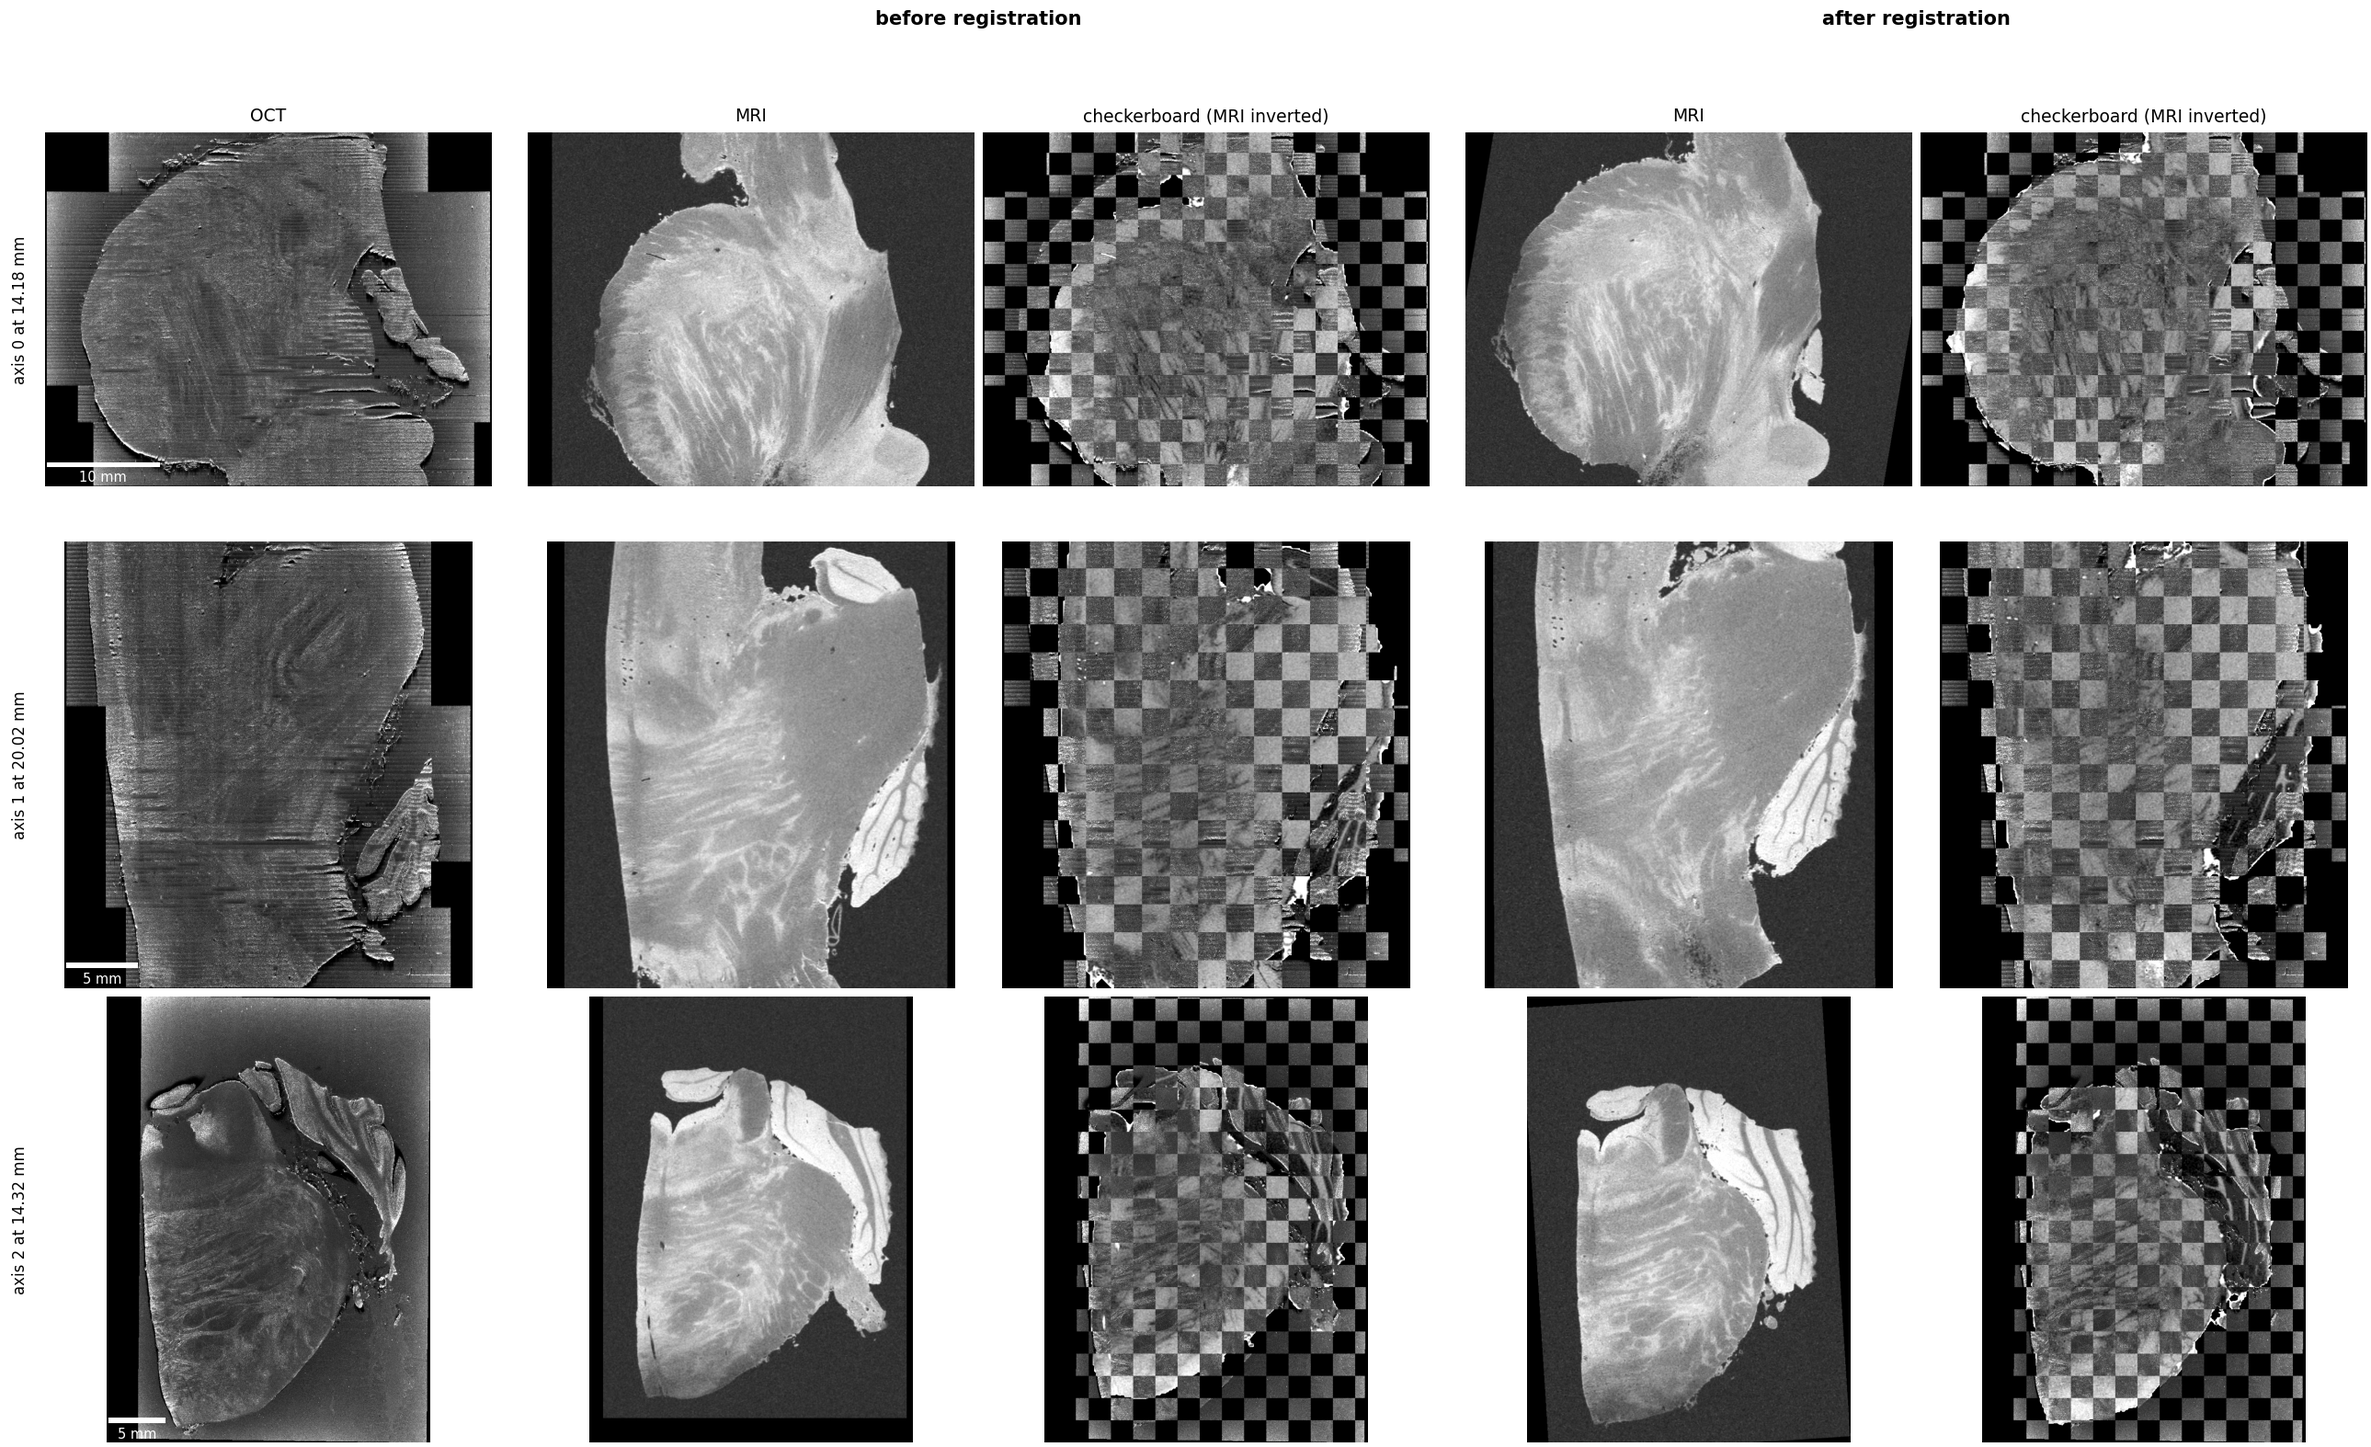
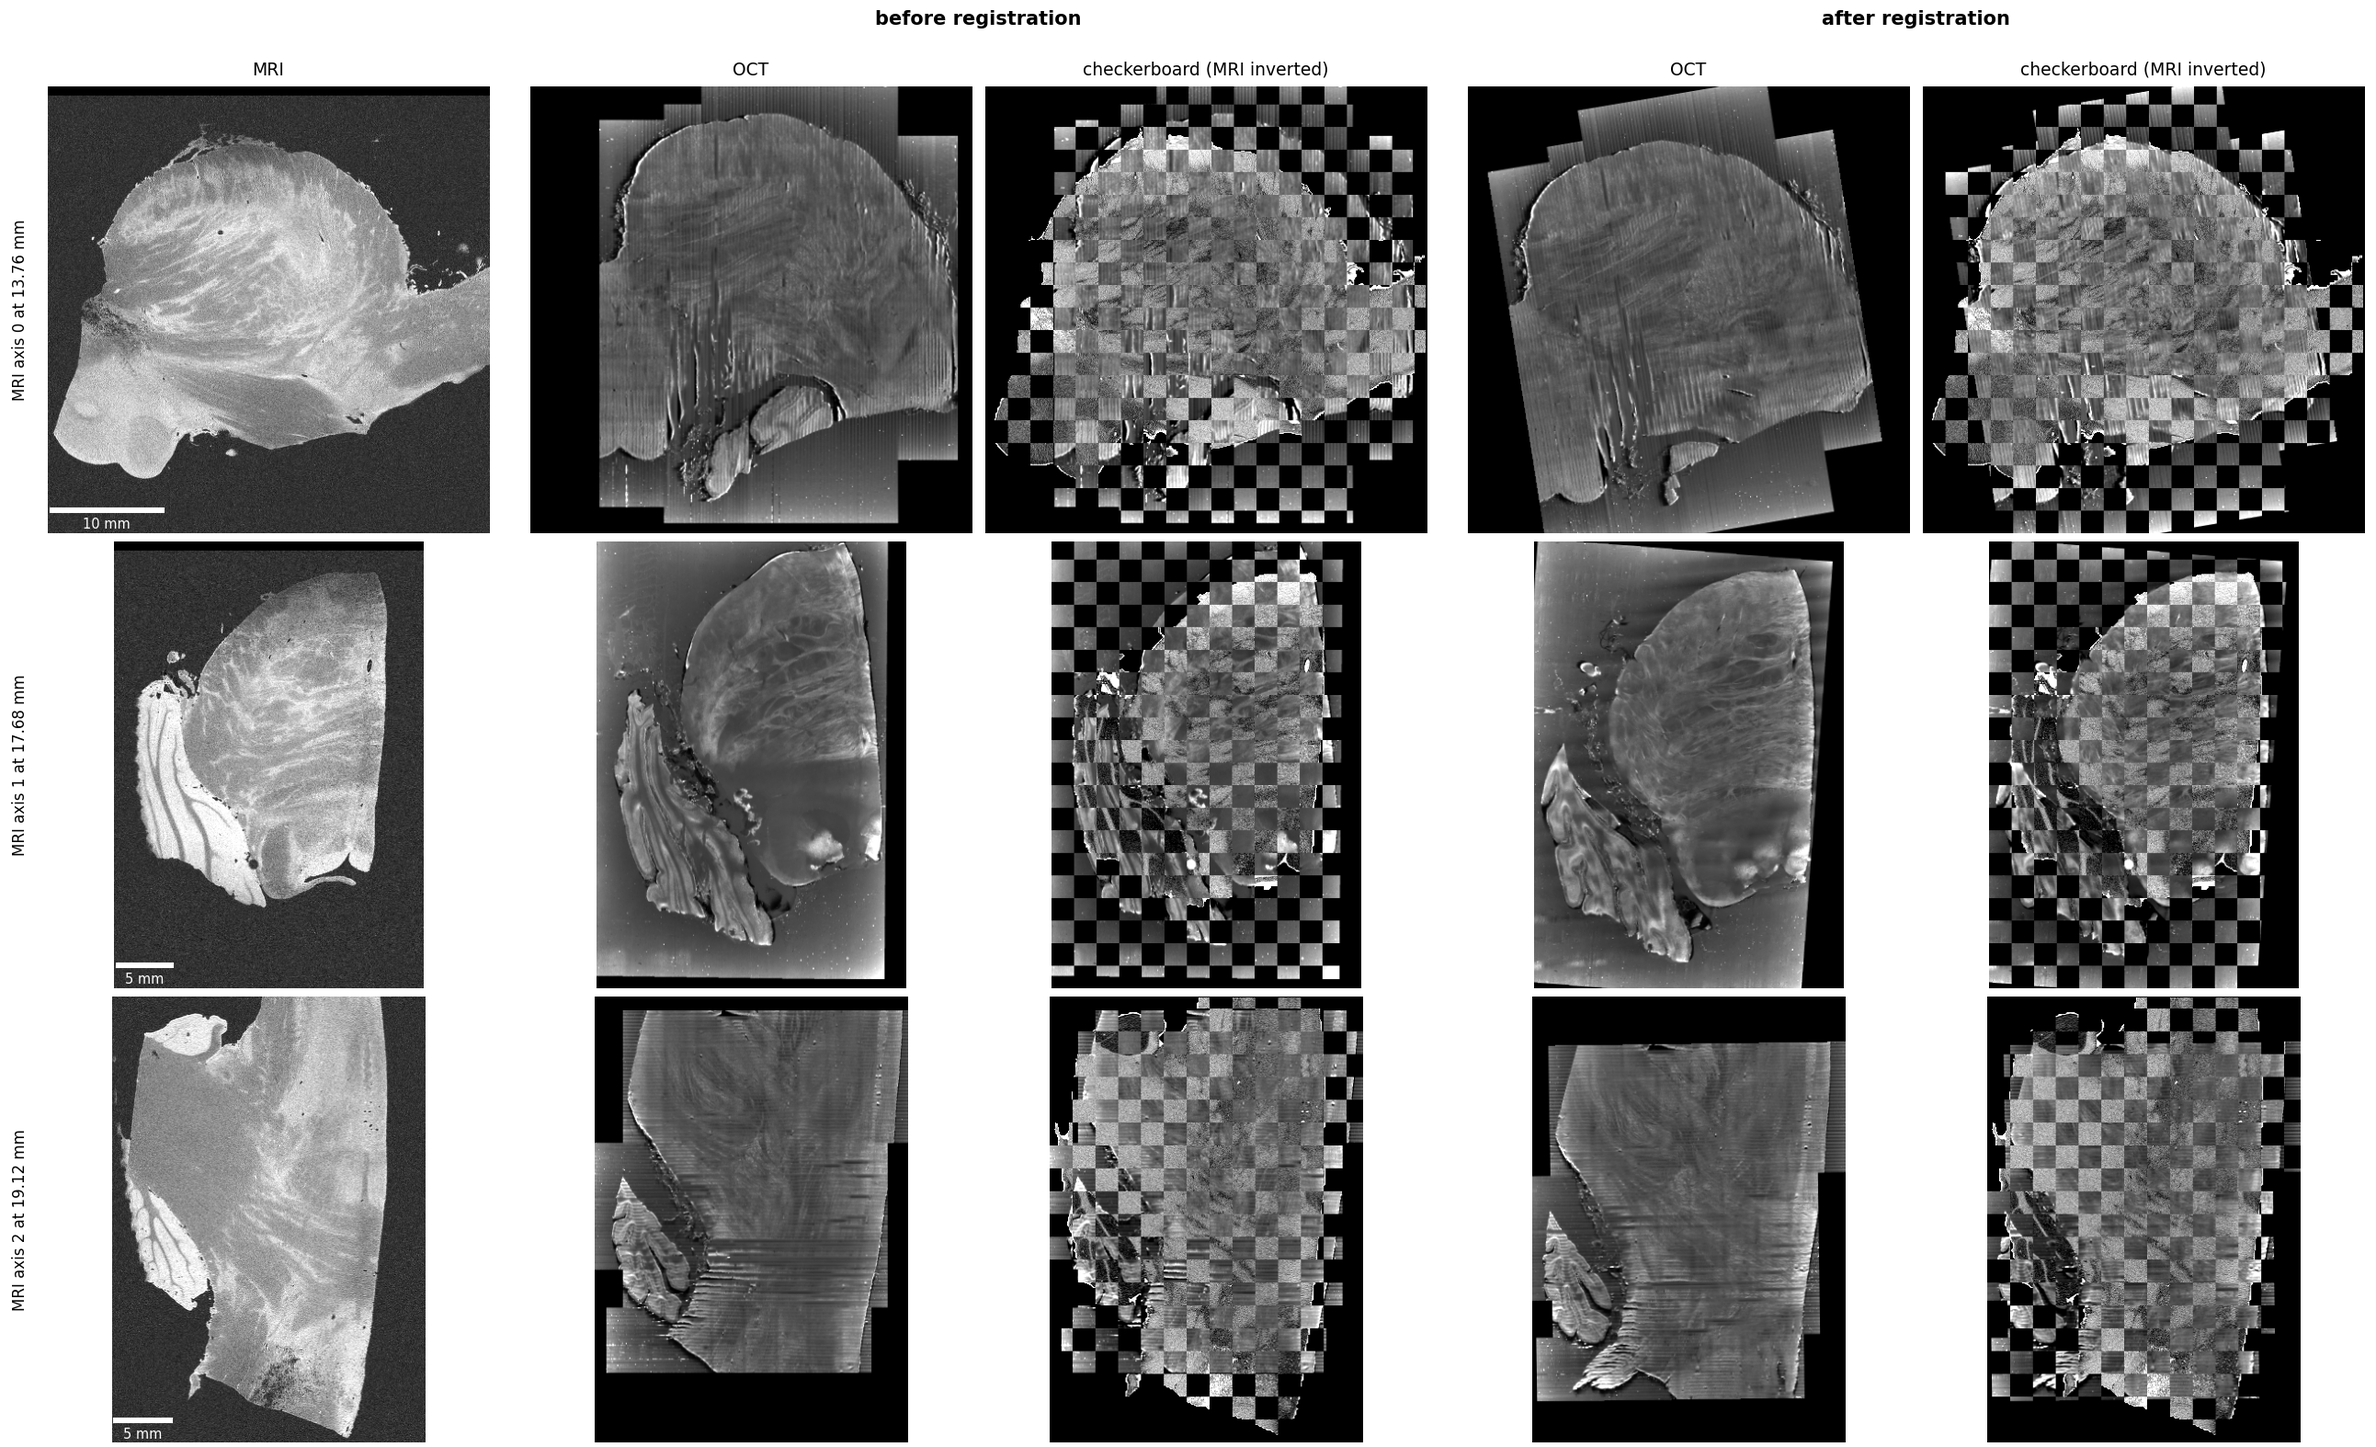
octreg 1.0: registration figure in the MRI frame (OCT placed on the MRI)

diff --git a/bench/fig_registration.py b/bench/fig_registration.py
@@ -1,14 +1,14 @@
 #!/usr/bin/env python3
-"""README registration figure read from the original files: for the three QC planes through the specimen centre, the OCT
-plane of the 20 um file sampled every STEP voxels; the MRI interpolated from its native 0.08 mm grid at the same points before
-registration (orientation from the file headers, the OCT specimen centre moved onto the MRI foreground centre) and after it (the run's transform), each in original contrast and as a 2 mm
-checkerboard with the OCT (MRI contrast inverted inside the run's MRI foreground when the polarity is -1, as in qc.png).
+"""README registration figure in the MRI frame, read from the original files: three MRI array planes through the registered
+OCT specimen centre, the native MRI slice (the reference), and the OCT placed onto it before registration (orientation from the
+file headers, the OCT specimen centre moved onto the MRI foreground centre) and after it (the run's transform), each also as a
+2 mm checkerboard with the MRI (MRI contrast inverted inside the run's MRI foreground when the polarity is -1, as in qc.png).
+The OCT is box-averaged to the MRI voxel size (0.08 mm) before it is sampled.
 
     python bench/fig_registration.py --run RUN --mask MASK --mri-mask MRI_MASK --oct OCT --mri MRI -o FIG.png
 
 RUN: octreg register output (result.json). MASK, MRI_MASK: the run's OCT specimen mask and MRI foreground on the base grid
-(ablate prep/texture/oct_mask.nii.gz, prep/mri/mri_mask.nii.gz); MASK fixes the planes exactly as qc.png does. The OCT is
-streamed once; one plane in memory at a time.
+(ablate prep/texture/oct_mask.nii.gz, prep/mri/mri_mask.nii.gz).
 """
 import argparse
 import json
@@ -21,10 +21,14 @@ import numpy as np
 from mpl_toolkits.axes_grid1.anchored_artists import AnchoredSizeBar
 from scipy import ndimage
 
-from octreg import io
+from octreg import geometry as G, io
 
-STEP = 2              # OCT voxels per plotted sample (40 um); the 150 dpi panels show about 70-80 um per pixel
 TILE_MM = 2.0
+
+
+def sample(vol, affine, world, order=1):
+    """Values of vol (voxel -> world affine) at world points [4, N]."""
+    return ndimage.map_coordinates(vol, (np.linalg.inv(affine) @ world)[:3], order=order, cval=0.0)
 
 
 def main():
@@ -34,88 +38,71 @@ def main():
     a = ap.parse_args()
     res = json.loads(open(f"{a.run}/result.json").read())
     T, pol = np.array(res["T_oct2mri"]), res["pose"]["polarity"]
-    thr = res["foreground"]["mri"]["threshold"]
-    vo = io.load_volume(a.oct)
-    A_f, (ni, nj, nk) = vo.affine, vo.shape
-    sp = float(np.linalg.norm(A_f[:3, 0]))
-    m_img = nib.load(a.mask)
-    mask, A_h = np.asarray(m_img.dataobj) > 0, m_img.affine
-    c = np.rint(ndimage.center_of_mass(mask))
-    idx = np.rint((np.linalg.inv(A_f) @ A_h @ np.append(c, 1.0))[:3]).astype(int)           # file voxel of each plane
-    planes = [np.zeros((nj, nk), np.float32), np.zeros((ni, nk), np.float32), None]
-    for k, pl in io.iter_planes(vo):
-        planes[0][:, k], planes[1][:, k] = pl[idx[0], :], pl[:, idx[1]]
-        if k == idx[2]:
-            planes[2] = pl.copy()
     mri_img = nib.load(a.mri)
     mri, A_m = np.asarray(mri_img.dataobj, np.float32), mri_img.affine
-    fm_img = nib.load(a.mri_mask)
-    fg_m, A_fm = np.asarray(fm_img.dataobj, np.float32), fm_img.affine
+    sp_m = float(np.linalg.norm(A_m[:3, 0]))
+    m_img, f_img = nib.load(a.mask), nib.load(a.mri_mask)
+    spec, A_h = np.asarray(m_img.dataobj, np.float32), m_img.affine
+    fg_m, A_fm = np.asarray(f_img.dataobj, np.float32), f_img.affine
+    oct_, A_o = G.resample_iso(io.load_volume(a.oct), sp_m)                                   # OCT at the MRI voxel size
+
+    c_oct = A_h @ np.append(ndimage.center_of_mass(spec > 0.5), 1.0)                         # OCT specimen centre, OCT world
+    T0 = np.eye(4)                                                                             # before registration
+    T0[:3, 3] = (A_fm @ np.append(ndimage.center_of_mass(fg_m > 0.5), 1.0))[:3] - c_oct[:3]
+    idx = np.rint((np.linalg.inv(A_m) @ T @ c_oct)[:3]).astype(int)                           # MRI planes
+    sub = oct_[::3, ::3, ::3]
+    lo_o, hi_o = np.percentile(sub[sub > 0], [0.5, 99.5])
     hi_m = float(np.percentile(mri[mri > 0], 99.5))
-    tissue_vals = mri[mri > thr]
-    lo_t, hi_t = np.percentile(tissue_vals, [1, 99])
-    mask_to_file = np.linalg.inv(A_h) @ A_f
-    T0 = np.eye(4)                                                                         # before registration
-    T0[:3, 3] = (A_fm @ np.append(ndimage.center_of_mass(fg_m > 0.5), 1.0))[:3] - (A_h @ np.append(ndimage.center_of_mass(mask), 1.0))[:3]
+    lo_t, hi_t = np.percentile(mri[mri > res["foreground"]["mri"]["threshold"]], [1, 99])
 
     rows = []
     for ax in range(3):
-        pl = planes[ax][::STEP, ::STEP]                                                     # [u, v] on the two other axes
+        sl = np.take(mri, idx[ax], axis=ax)                                                    # native MRI slice
         others = [d for d in range(3) if d != ax]
-        u, v = np.meshgrid(np.arange(pl.shape[0]) * STEP, np.arange(pl.shape[1]) * STEP, indexing="ij")
+        u, v = np.meshgrid(np.arange(sl.shape[0]), np.arange(sl.shape[1]), indexing="ij")
         ijk = np.zeros((4,) + u.shape)
         ijk[others[0]], ijk[others[1]], ijk[ax], ijk[3] = u, v, idx[ax], 1.0
-        pts = ijk.reshape(4, -1)
-        mri_vox = (np.linalg.inv(A_m) @ T @ A_f @ pts)[:3]
-        mp = ndimage.map_coordinates(mri, mri_vox, order=1, cval=0.0).reshape(u.shape)
-        mp0 = ndimage.map_coordinates(mri, (np.linalg.inv(A_m) @ T0 @ A_f @ pts)[:3], order=1, cval=0.0).reshape(u.shape)
-        fg, fg0 = (ndimage.map_coordinates(fg_m, (np.linalg.inv(A_fm) @ X @ A_f @ pts)[:3], order=1, cval=0.0).reshape(u.shape) > 0.5
-                   for X in (T, T0))
-        inside = ndimage.map_coordinates(mask.astype(np.float32), (mask_to_file @ pts)[:3], order=0, cval=0).reshape(u.shape) > 0
-        meas = pl > 0
-        lo_o, hi_o = np.percentile(pl[meas], [0.5, 99.5])
-        oct_raw = np.clip((pl - lo_o) / (hi_o - lo_o), 0, 1) * meas
-        lo_s, hi_s = np.percentile(pl[inside & meas], [1, 99]) if (inside & meas).any() else (lo_o, hi_o)
-        oct_s = np.clip((pl - lo_s) / (hi_s - lo_s), 0, 1) * meas
-        tile = int(round(TILE_MM / (sp * STEP)))
-        board = ((np.arange(pl.shape[0])[:, None] // tile + np.arange(pl.shape[1])[None, :] // tile) % 2) == 0
+        world = A_m @ ijk.reshape(4, -1)
+        fg = sample(fg_m, A_fm, world).reshape(u.shape) > 0.5
+        m = np.clip((sl - lo_t) / (hi_t - lo_t), 0, 1)
+        m = np.where(fg, 1 - m if pol < 0 else m, 0.0)
+        tile = int(round(TILE_MM / sp_m))
+        board = ((np.arange(sl.shape[0])[:, None] // tile + np.arange(sl.shape[1])[None, :] // tile) % 2) == 0
+        imgs = [np.clip(sl / hi_m, 0, 1)]
+        for X in (T0, T):
+            back = np.linalg.inv(X) @ world                                                    # MRI world -> OCT world
+            o = sample(oct_, A_o, back).reshape(u.shape)
+            inside = (sample(spec, A_h, back, order=0).reshape(u.shape) > 0.5) & (o > 0)
+            lo_s, hi_s = np.percentile(o[inside], [1, 99]) if inside.any() else (lo_o, hi_o)
+            imgs += [np.clip((o - lo_o) / (hi_o - lo_o), 0, 1) * (o > 0),
+                     np.where(board, np.clip((o - lo_s) / (hi_s - lo_s), 0, 1) * (o > 0), m)]
+        rows.append((ax, idx[ax] * sp_m, [x.T for x in imgs]))
 
-        def checker(x, f):
-            y = np.clip((x - lo_t) / (hi_t - lo_t), 0, 1)
-            return np.where(board, oct_s, np.where(f, 1 - y if pol < 0 else y, 0.0))
-
-        pos = idx[ax] * sp
-        rows.append((ax, pos, [x.T for x in (oct_raw, np.clip(mp0 / hi_m, 0, 1), checker(mp0, fg0), np.clip(mp / hi_m, 0, 1),
-                                             checker(mp, fg))]))
-
-    cell, head, ncol, gap = 3.3, 0.6, 5, 0.2
-    W = 0.35 + ncol * cell + 2 * gap
+    cell, head, gap = 3.3, 0.6, 0.2
     x_of = lambda j: 0.35 + j * cell + gap * (j >= 1) + gap * (j >= 3)
-    fig = plt.figure(figsize=(W, head + 3 * cell), dpi=150, facecolor="white")
+    W, H = x_of(4) + cell + 0.05, head + 3 * cell
+    fig = plt.figure(figsize=(W, H), dpi=150, facecolor="white")
     board_head = "checkerboard (MRI inverted)" if pol < 0 else "checkerboard"
-    heads = ("OCT", "MRI", board_head, "MRI", board_head)
+    heads = ("MRI", "OCT", board_head, "OCT", board_head)
     for (j0, j1), t in (((1, 2), "before registration"), ((3, 4), "after registration")):
-        fig.text((x_of(j0) + x_of(j1) + cell) / 2 / W, 1 - 0.14 / (head + 3 * cell), t, ha="center", va="center", fontsize=10,
-                 weight="bold")
+        fig.text((x_of(j0) + x_of(j1) + cell) / 2 / W, 1 - 0.14 / H, t, ha="center", va="center", fontsize=10, weight="bold")
     for r, (ax, pos, imgs) in enumerate(rows):
         for j, img in enumerate(imgs):
-            axh = fig.add_axes(((x_of(j) + 0.03) / W, (3 * cell - (r + 1) * cell + 0.03) / (head + 3 * cell),
-                                (cell - 0.06) / W, (cell - 0.06) / (head + 3 * cell)))
+            axh = fig.add_axes(((x_of(j) + 0.03) / W, (3 * cell - (r + 1) * cell + 0.03) / H, (cell - 0.06) / W, (cell - 0.06) / H))
             axh.imshow(img, cmap="gray", vmin=0, vmax=1, origin="lower", interpolation="antialiased")
             axh.set_axis_off()
             if r == 0:
                 axh.set_title(heads[j], fontsize=9)
             if j == 0:
-                px_mm = sp * STEP
-                bar = 10 if img.shape[1] * px_mm > 35 else 5
-                axh.add_artist(AnchoredSizeBar(axh.transData, bar / px_mm, f"{bar} mm", "lower left", color="w", frameon=False,
+                bar = 10 if img.shape[1] * sp_m > 35 else 5
+                axh.add_artist(AnchoredSizeBar(axh.transData, bar / sp_m, f"{bar} mm", "lower left", color="w", frameon=False,
                                                size_vertical=img.shape[0] / 120, fontproperties={"size": 7}))
-        fig.text(0.2 / W, (3 * cell - (r + 0.5) * cell) / (head + 3 * cell), f"axis {ax} at {pos:.2f} mm",
-                 rotation=90, ha="center", va="center", fontsize=8)
+        fig.text(0.2 / W, (3 * cell - (r + 0.5) * cell) / H, f"MRI axis {ax} at {pos:.2f} mm", rotation=90, ha="center",
+                 va="center", fontsize=8)
     fig.savefig(a.o, dpi=150, facecolor="white")
     from PIL import Image
-    Image.open(a.o).convert("L").save(a.o, optimize=True)                                   # grey only: smaller file
-    print("wrote", a.o, "planes", idx.tolist())
+    Image.open(a.o).convert("L").save(a.o, optimize=True)                                     # grey only: smaller file
+    print("wrote", a.o, "MRI planes", idx.tolist())
 
 
 if __name__ == "__main__":

diff --git a/docs/METHOD.md b/docs/METHOD.md
@@ -80,12 +80,12 @@ RAM and 1.8 GiB of GPU memory. S is 0.2747 (S_class −0.1175, S_outline 0.5891)
 20 µm OCT values mapped through the header and the transform correlate with the exported overlay at Spearman 0.991, against at
 most 0.270 with any OCT axis flipped.
 
-docs/figures/registration_I58.png shows the planes through the specimen centre before and after registration, read from the
-original files. In the qc_montage.png of the run the MRI outline follows the OCT specimen in every plane apart from the torn
-and folded cerebellar pieces, which have moved; the OCT mask takes in a margin of agarose in most planes. The cerebellar folia
-of the MRI land on the folded folia of the OCT, and a round nucleus at the top of the axis-2 planes corresponds. The best
-mirrored pose fits the outline as well (S_outline 0.6438) and has the lower loss (L 0.7133 against 0.7296), but its folia lie
-at the upper right of the axis-1 plane and are missing from the upper right of the axis-2 plane.
+docs/figures/registration_I58.png shows the OCT on three MRI planes through the registered specimen before and after
+registration, read from the original files. In the qc_montage.png of the run the MRI outline follows the OCT specimen in every
+plane apart from the torn and folded cerebellar pieces, which have moved; the OCT mask takes in a margin of agarose in most
+planes. The cerebellar folia of the MRI land on the folded folia of the OCT, and a round nucleus at the top of the axis-2
+planes corresponds. The best mirrored pose fits the outline as well (S_outline 0.6438) and has the lower loss (L 0.7133 against
+0.7296), but its folia lie at the upper right of the axis-1 plane and are missing from the upper right of the axis-2 plane.
 
 Each ablation changes one element and reruns search and refinement; pose changes are block-corner means against the result.
 

diff --git a/README.md b/README.md
@@ -7,9 +7,9 @@ It writes the transform between the two input files, each volume resampled into 
 
 ![Registration of the I58 brainstem pair](docs/figures/registration_I58.png)
 
-*I58 brainstem pair, one plane per OCT axis through the specimen centre, read from the original files: the OCT, then the MRI
-before registration (orientation from the file headers, specimen centres matched) and after it, each with a 2 mm checkerboard
-against the OCT (MRI contrast inverted).*
+*I58 brainstem pair, one plane per MRI axis through the registered specimen, read from the original files: the MRI, then the
+OCT placed on it before registration (orientation from the file headers, specimen centres matched) and after it, each with a
+2 mm checkerboard against the MRI (MRI contrast inverted).*
 
 ## Installation
 
